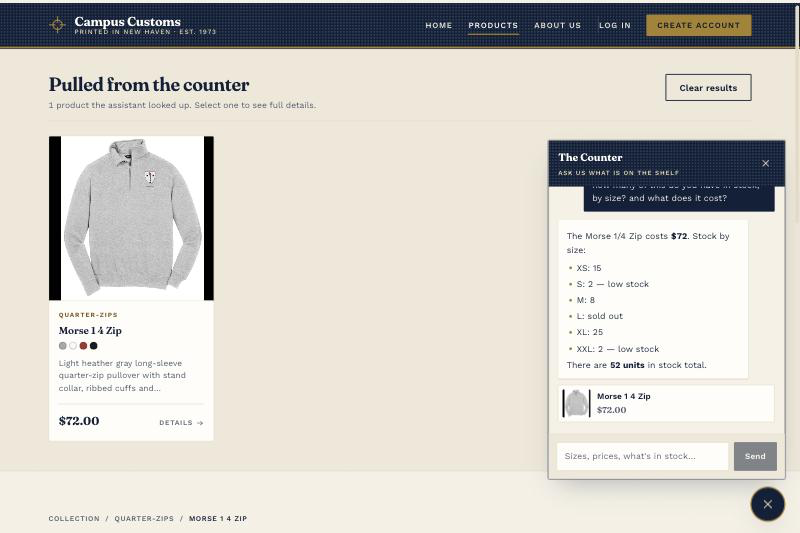
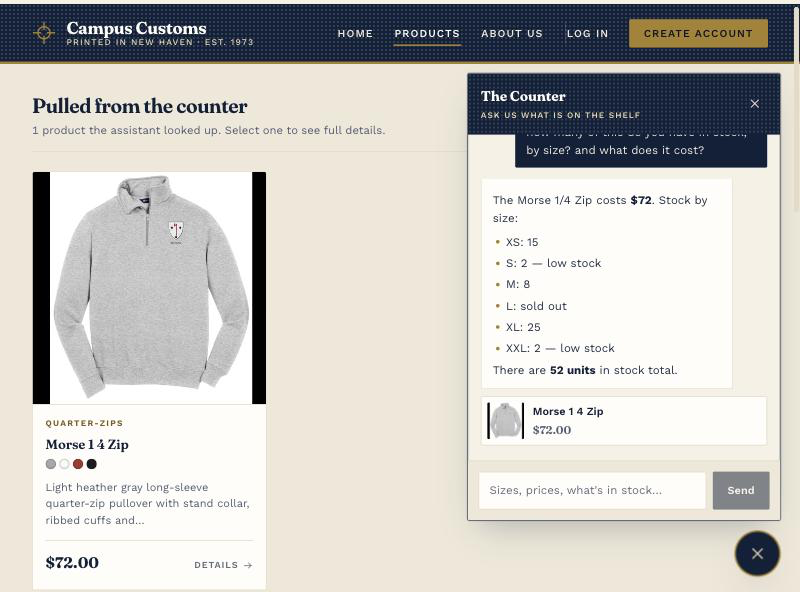
Problem 11: restructure app_check.html for grading
Each check is now heading -> screenshot -> two sentences, with nothing
between them. The verification tables moved into collapsed <details> so
the evidence is still there without burying what a grader looks for.

Screenshots recaptured at a tighter viewport so the chat text is legible.

diff --git a/output/app_check.html b/output/app_check.html
@@ -5,7 +5,7 @@
 <meta name="viewport" content="width=device-width, initial-scale=1">
 <title>Campus Customs — App Check</title>
 <style>
-  /* Self-contained: no external fonts, scripts or stylesheets, so this page
+  /* Self-contained: no external fonts, scripts or stylesheets, so the page
      renders identically offline when opened by double-clicking. */
   :root {
     --ink: #10203a;
@@ -15,111 +15,89 @@
     --sheet: #fffdf8;
     --rule: #e4dac4;
     --brass: #7a5a14;
-    --pass-bg: #e6f0e9;
-    --pass-fg: #1f5f46;
   }
   * { box-sizing: border-box; }
   body {
     margin: 0;
     background: var(--stock);
     color: var(--body);
-    font: 16px/1.65 -apple-system, BlinkMacSystemFont, "Segoe UI", Roboto, Helvetica, Arial, sans-serif;
+    font: 16px/1.6 -apple-system, BlinkMacSystemFont, "Segoe UI", Roboto, Helvetica, Arial, sans-serif;
   }
-  .wrap { max-width: 940px; margin: 0 auto; padding: 0 24px 72px; }
+  .wrap { max-width: 880px; margin: 0 auto; padding: 0 24px; }
 
   header {
     background: var(--ink);
-    color: var(--stock);
-    padding: 40px 0 34px;
+    padding: 34px 0 28px;
     border-bottom: 3px solid #a8812a;
-    margin-bottom: 40px;
+    margin-bottom: 36px;
   }
-  header .wrap { padding-bottom: 0; }
   h1 {
     font-family: "Iowan Old Style", Palatino, Georgia, serif;
-    font-size: clamp(1.9rem, 4vw, 2.7rem);
-    margin: 0 0 8px;
+    font-size: clamp(1.8rem, 4vw, 2.4rem);
+    margin: 0 0 6px;
     color: #fffdf8;
     letter-spacing: -0.02em;
   }
-  header p { margin: 0; color: #e8d9b0; font-size: 0.95rem; }
-  header dl {
-    display: flex; flex-wrap: wrap; gap: 26px;
-    margin: 22px 0 0; padding-top: 18px;
-    border-top: 1px solid rgba(246,241,230,0.2);
-  }
-  header dt {
-    font-size: 0.68rem; letter-spacing: 0.12em; text-transform: uppercase;
-    color: rgba(246,241,230,0.6); margin-bottom: 2px;
-  }
-  header dd { margin: 0; font-size: 0.92rem; color: #fffdf8; }
+  header p { margin: 0; color: #e8d9b0; font-size: 0.92rem; }
 
+  /* Each check: heading, screenshot, explanation. Nothing between them. */
   section {
     background: var(--sheet);
     border: 1px solid var(--rule);
     border-radius: 4px;
-    padding: 26px;
-    margin-bottom: 30px;
+    padding: 24px;
+    margin-bottom: 28px;
   }
   h2 {
     font-family: "Iowan Old Style", Palatino, Georgia, serif;
-    font-size: 1.45rem;
+    font-size: 1.4rem;
     color: var(--ink);
-    margin: 0 0 6px;
+    margin: 0 0 16px;
     letter-spacing: -0.015em;
   }
-  .check-no {
-    display: inline-block;
-    font-size: 0.7rem; letter-spacing: 0.14em; text-transform: uppercase;
+  h2 span {
+    display: block;
+    font-family: -apple-system, BlinkMacSystemFont, "Segoe UI", sans-serif;
+    font-size: 0.68rem; letter-spacing: 0.14em; text-transform: uppercase;
     font-weight: 700; color: var(--brass);
-    margin-bottom: 10px;
+    margin-bottom: 7px;
   }
-  figure { margin: 20px 0 0; }
-  figure img {
+  img {
     display: block; width: 100%; height: auto;
     border: 1px solid var(--rule);
     border-radius: 3px;
-    background: var(--stock);
   }
-  figcaption {
-    margin-top: 12px;
-    font-size: 0.93rem;
+  .explains {
+    margin: 14px 0 0;
+    font-size: 0.97rem;
     color: var(--body);
-    border-left: 1px solid var(--rule);
-    padding-left: 14px;
-  }
-  .proves { font-weight: 600; color: var(--ink); }
-
-  .pass {
-    display: inline-block;
-    background: var(--pass-bg); color: var(--pass-fg);
-    font-size: 0.7rem; letter-spacing: 0.1em; text-transform: uppercase;
-    font-weight: 700;
-    padding: 4px 10px; border-radius: 99px;
-    margin-left: 8px; vertical-align: 3px;
   }
 
+  details {
+    margin-top: 16px;
+    border-top: 1px solid var(--rule);
+    padding-top: 12px;
+  }
+  summary {
+    cursor: pointer;
+    font-size: 0.78rem; letter-spacing: 0.08em; text-transform: uppercase;
+    font-weight: 700; color: var(--muted);
+  }
+  summary:hover { color: var(--ink); }
   table {
-    border-collapse: collapse;
-    width: 100%;
-    margin: 16px 0 0;
-    font-size: 0.88rem;
+    border-collapse: collapse; width: 100%;
+    margin-top: 12px; font-size: 0.86rem;
     font-variant-numeric: tabular-nums;
   }
-  th, td { text-align: left; padding: 7px 10px; border-bottom: 1px solid var(--rule); }
-  th { font-size: 0.7rem; letter-spacing: 0.1em; text-transform: uppercase; color: var(--muted); }
-  td code { background: var(--stock); padding: 1px 5px; border-radius: 3px; font-size: 0.86rem; }
-  caption {
-    text-align: left; font-size: 0.78rem; color: var(--muted);
-    padding-bottom: 8px; font-style: italic;
-  }
+  th, td { text-align: left; padding: 6px 9px; border-bottom: 1px solid var(--rule); }
+  th { font-size: 0.68rem; letter-spacing: 0.09em; text-transform: uppercase; color: var(--muted); }
+  code { background: var(--stock); padding: 1px 5px; border-radius: 3px; font-size: 0.85rem; }
 
   footer {
-    font-size: 0.85rem; color: var(--muted);
+    font-size: 0.83rem; color: var(--muted);
     border-top: 1px solid var(--rule);
-    padding-top: 20px;
+    padding: 20px 0 60px;
   }
-  a { color: var(--ink); }
 </style>
 </head>
 <body>
@@ -127,13 +105,7 @@
 <header>
   <div class="wrap">
     <h1>Campus Customs — App Check</h1>
-    <p>Three checks run against the live site, with screenshots taken from the running app.</p>
-    <dl>
-      <div><dt>Frontend</dt><dd>http://localhost:5174</dd></div>
-      <div><dt>Backend</dt><dd>http://127.0.0.1:8000</dd></div>
-      <div><dt>Data source</dt><dd>data/campus_customs.db</dd></div>
-      <div><dt>Result</dt><dd>3 of 3 passed</dd></div>
-    </dl>
+    <p>Three checks run against the live site. All three passed.</p>
   </div>
 </header>
 
@@ -141,124 +113,103 @@
 
   <!-- ============================ CHECK 1 ============================ -->
   <section>
-    <span class="check-no">Check 1</span>
-    <h2>Chat reports real inventory and price<span class="pass">Pass</span></h2>
+    <h2><span>Check 1</span>Chat reports real inventory and price</h2>
 
-    <p>
-      On the Morse&nbsp;¼&nbsp;Zip product page, the assistant was asked:
-      <em>“how many of this do you have in stock, by size? and what does it cost?”</em>
+    <img src="app_check_images/inventory.png"
+         alt="The Campus Customs chat panel on the Morse quarter zip page, listing stock by size — XS 15, S 2 low stock, M 8, L sold out, XL 25, XXL 2 low stock — with a $72 price and 52 units in stock total.">
+
+    <p class="explains">
+      The assistant was asked how much stock this item has by size and what it
+      costs, and returned the exact per-size quantities, the $72 price and the
+      52-unit total held in the database. It states plainly that
+      <strong>size L is sold out</strong> instead of giving a vague “yes, it’s
+      available”.
     </p>
 
-    <figure>
-      <img src="app_check_images/inventory.png"
-           alt="The Campus Customs chat panel listing stock for the Morse quarter zip: XS 15, S 2 low stock, M 8, L sold out, XL 25, XXL 2 low stock, 52 units total, priced $72.">
-      <figcaption>
-        <span class="proves">What this proves:</span>
-        The assistant returned the exact per-size quantities and price held in
-        the database, said plainly that <strong>size L is sold out</strong>, and
-        flagged the two sizes down to their last units — rather than giving a
-        vague “yes, it’s available”.
-      </figcaption>
-    </figure>
-
-    <table>
-      <caption>Every figure in the reply checked against the database row by row.</caption>
-      <tr><th>Field</th><th>Database</th><th>Assistant said</th><th>Match</th></tr>
-      <tr><td>Price</td><td><code>72.0</code></td><td>$72</td><td>yes</td></tr>
-      <tr><td>XS</td><td><code>15</code></td><td>15</td><td>yes</td></tr>
-      <tr><td>S</td><td><code>2</code></td><td>2 — low stock</td><td>yes</td></tr>
-      <tr><td>M</td><td><code>8</code></td><td>8</td><td>yes</td></tr>
-      <tr><td>L</td><td><code>0</code></td><td>sold out</td><td>yes</td></tr>
-      <tr><td>XL</td><td><code>25</code></td><td>25</td><td>yes</td></tr>
-      <tr><td>XXL</td><td><code>2</code></td><td>2 — low stock</td><td>yes</td></tr>
-      <tr><td>Total units</td><td><code>52</code></td><td>52 units</td><td>yes</td></tr>
-    </table>
-
-    <p style="margin-top:16px;font-size:0.9rem;color:var(--muted)">
-      The question said “this” rather than naming the product. The assistant
-      resolved it from the page the shopper was on, which is the page-context
-      mechanism from Problem&nbsp;8.
-    </p>
+    <details>
+      <summary>Every figure checked against the database</summary>
+      <table>
+        <tr><th>Field</th><th>Database</th><th>Assistant said</th></tr>
+        <tr><td>Price</td><td><code>72.0</code></td><td>$72</td></tr>
+        <tr><td>XS</td><td><code>15</code></td><td>15</td></tr>
+        <tr><td>S</td><td><code>2</code></td><td>2 — low stock</td></tr>
+        <tr><td>M</td><td><code>8</code></td><td>8</td></tr>
+        <tr><td>L</td><td><code>0</code></td><td>sold out</td></tr>
+        <tr><td>XL</td><td><code>25</code></td><td>25</td></tr>
+        <tr><td>XXL</td><td><code>2</code></td><td>2 — low stock</td></tr>
+        <tr><td>Total units</td><td><code>52</code></td><td>52 units</td></tr>
+      </table>
+      <p style="font-size:0.86rem;color:var(--muted);margin-top:12px">
+        The question said “this” rather than naming the product, so it also
+        shows the agent resolving the item from the page being viewed.
+      </p>
+    </details>
   </section>
 
   <!-- ============================ CHECK 2 ============================ -->
   <section>
-    <span class="check-no">Check 2</span>
-    <h2>A category question puts product cards on the page<span class="pass">Pass</span></h2>
+    <h2><span>Check 2</span>A category question puts product cards on the page</h2>
 
-    <p>
-      Asked <em>“what hoodies do you have?”</em> from the About page — deliberately
-      not the catalogue — to show the results appear wherever the shopper is.
+    <img src="app_check_images/search_cards.png"
+         alt="The About page showing a band headed “Pulled for hoodies” with eight hoodie product cards — each with image, name, colour swatches, description and price — next to the open chat panel listing the same products.">
+
+    <p class="explains">
+      Asking “what hoodies do you have?” made the agent search the catalogue and
+      the matching products appear on the page as cards, each with an image,
+      name, price and short description, and each opening its own product page.
+      This was asked from the <strong>About page</strong>, showing results follow
+      the shopper wherever they are.
     </p>
 
-    <figure>
-      <img src="app_check_images/search_cards.png"
-           alt="The About page showing a band headed “Pulled for hoodies” with eight hoodie product cards, each with image, name, colour swatches, description and price, alongside the open chat panel.">
-      <figcaption>
-        <span class="proves">What this proves:</span>
-        The agent’s search results were returned as structured data and rendered
-        on the page as full product cards — each with image, name, price and a
-        short description, and each linking to its own detail page. The reply
-        says “<strong>27 hoodies</strong>”, the real catalogue count, while
-        showing the top eight.
-      </figcaption>
-    </figure>
-
-    <table>
-      <caption>The API contract behind the cards.</caption>
-      <tr><th>Response field</th><th>Value</th><th>Used for</th></tr>
-      <tr><td><code>matched_for</code></td><td><code>"hoodies"</code></td><td>The heading, “Pulled for ‘hoodies’”</td></tr>
-      <tr><td><code>products[]</code></td><td>8 cards</td><td>The grid on the page</td></tr>
-      <tr><td><code>product_id</code></td><td><code>basic-hoodie-big-yale</code></td><td>Link to <code>/products/&lt;id&gt;</code></td></tr>
-      <tr><td><code>reply</code></td><td>“We have 27 hoodies…”</td><td>The chat message</td></tr>
-    </table>
-
-    <p style="margin-top:16px;font-size:0.9rem;color:var(--muted)">
-      The cards carry only products the agent actually retrieved through a tool
-      call, so the page cannot display an item the agent merely mentioned.
-    </p>
+    <details>
+      <summary>The API response behind the cards</summary>
+      <table>
+        <tr><th>Field</th><th>Value</th><th>Renders as</th></tr>
+        <tr><td><code>matched_for</code></td><td><code>"hoodies"</code></td><td>The heading, “Pulled for ‘hoodies’”</td></tr>
+        <tr><td><code>products[]</code></td><td>8 cards</td><td>The grid on the page</td></tr>
+        <tr><td><code>product_id</code></td><td><code>basic-hoodie-big-yale</code></td><td>Link to <code>/products/&lt;id&gt;</code></td></tr>
+        <tr><td><code>reply</code></td><td>“We have 27 hoodies…”</td><td>The chat message</td></tr>
+      </table>
+      <p style="font-size:0.86rem;color:var(--muted);margin-top:12px">
+        27 is the true catalogue count; the top eight are shown. The cards carry
+        only products the agent actually retrieved through a tool call.
+      </p>
+    </details>
   </section>
 
   <!-- ============================ CHECK 3 ============================ -->
   <section>
-    <span class="check-no">Check 3</span>
-    <h2>Usability feature: sorting and price filtering<span class="pass">Pass</span></h2>
+    <h2><span>Check 3</span>Usability feature: sorting and price filtering</h2>
 
-    <p>
-      One of the Problem&nbsp;9 improvements. The catalogue previously had no way
-      to order results or filter by price. Shown here with
-      <strong>Under&nbsp;$40</strong> and <strong>Price: low to high</strong> applied.
+    <img src="app_check_images/usability_filters.png"
+         alt="The Collection page with the Under $40 chip active and the sort control set to Price: low to high, showing “25 products match your filters” above a grid of $32 T-shirts.">
+
+    <p class="explains">
+      One of the Problem&nbsp;9 improvements: the catalogue previously had no way
+      to order results or filter by price. With <strong>Under $40</strong> and
+      <strong>Price: low to high</strong> applied, 102 products narrow to the
+      <strong>25</strong> at or under $40, and both settings are written to the
+      URL so the view can be shared or refreshed.
     </p>
 
-    <figure>
-      <img src="app_check_images/usability_filters.png"
-           alt="The Collection page with the Under $40 price chip active and the sort control set to Price: low to high, showing 25 products match your filters and a grid of $32 T-shirts.">
-      <figcaption>
-        <span class="proves">What this proves:</span>
-        The filter narrowed 102 products to the <strong>25</strong> at or under
-        $40 — every visible card priced $32 — and the sort control is set to
-        price ascending. Both settings are written to the URL
-        (<code>?sort=price_asc&amp;max_price=40</code>), so a filtered view can be
-        shared or bookmarked and survives a refresh.
-      </figcaption>
-    </figure>
-
-    <table>
-      <caption>Verified against the catalogue.</caption>
-      <tr><th>Control</th><th>Setting</th><th>Result</th></tr>
-      <tr><td>Price band</td><td>Under $40</td><td>25 of 102 products, all $32</td></tr>
-      <tr><td>Sort</td><td>Price: low to high</td><td>Cheapest tier first</td></tr>
-      <tr><td>URL state</td><td><code>?sort=price_asc&amp;max_price=40</code></td><td>Shareable, survives refresh</td></tr>
-      <tr><td>Invalid sort value</td><td><code>?sort=bogus</code></td><td>422, not a silent fallback</td></tr>
-    </table>
+    <details>
+      <summary>Verified against the catalogue</summary>
+      <table>
+        <tr><th>Control</th><th>Setting</th><th>Result</th></tr>
+        <tr><td>Price band</td><td>Under $40</td><td>25 of 102 products, all $32</td></tr>
+        <tr><td>Sort</td><td>Price: low to high</td><td>Cheapest tier first</td></tr>
+        <tr><td>URL state</td><td><code>?sort=price_asc&amp;max_price=40</code></td><td>Shareable, survives refresh</td></tr>
+        <tr><td>Invalid sort</td><td><code>?sort=bogus</code></td><td>422, not a silent fallback</td></tr>
+      </table>
+    </details>
   </section>
 
   <footer>
     <p>
-      Screenshots captured from the running application; every figure quoted was
-      checked against <code>data/campus_customs.db</code>. Images are in
-      <code>app_check_images/</code> and linked with relative paths, so this page
-      can be moved or opened offline.
+      Screenshots were captured from the running application at
+      <code>localhost:5174</code>, with the backend on port 8000. Images live in
+      <code>app_check_images/</code> and are linked with relative paths, so this
+      page opens on a double-click and works offline.
     </p>
     <p>Campus Customs — Yale SOM MGT 409. A student project, not affiliated with Yale University.</p>
   </footer>

diff --git a/AI_prompts.md b/AI_prompts.md
@@ -374,3 +374,20 @@ app_check_images/inventory.png
 ```
 ````
 
+**Prompt 2 (follow-up):**
+
+````
+continuing on problem 11, make the html easy to grade. include a heading for each check, a screenshot, and one or two sentences explaining what the screenshot proves. put the screenshot image files in `output/app_check_images/`. link to them from `app_check.html` using relative paths. for example:
+
+```text
+app_check_images/inventory.png
+```
+````
+
+*What was lacking after the first prompt:* the page met the letter of the
+requirement but buried it — each check opened with an intro paragraph and
+closed with a verification table and footnote, so the heading, screenshot and
+one-line explanation a grader is looking for were not the first things on the
+page. The screenshots were also captured at 800px wide, which made the chat
+text small.
+
